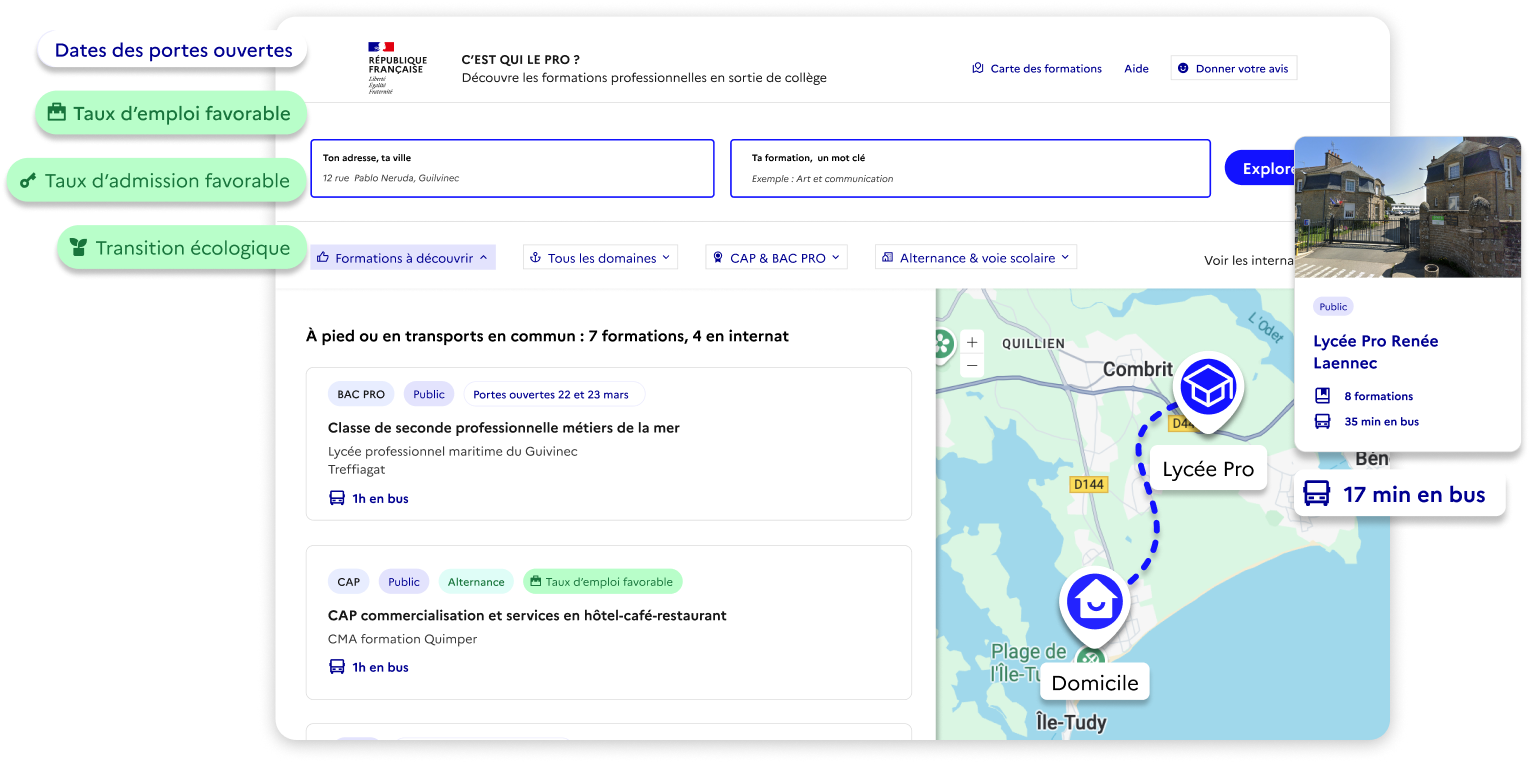
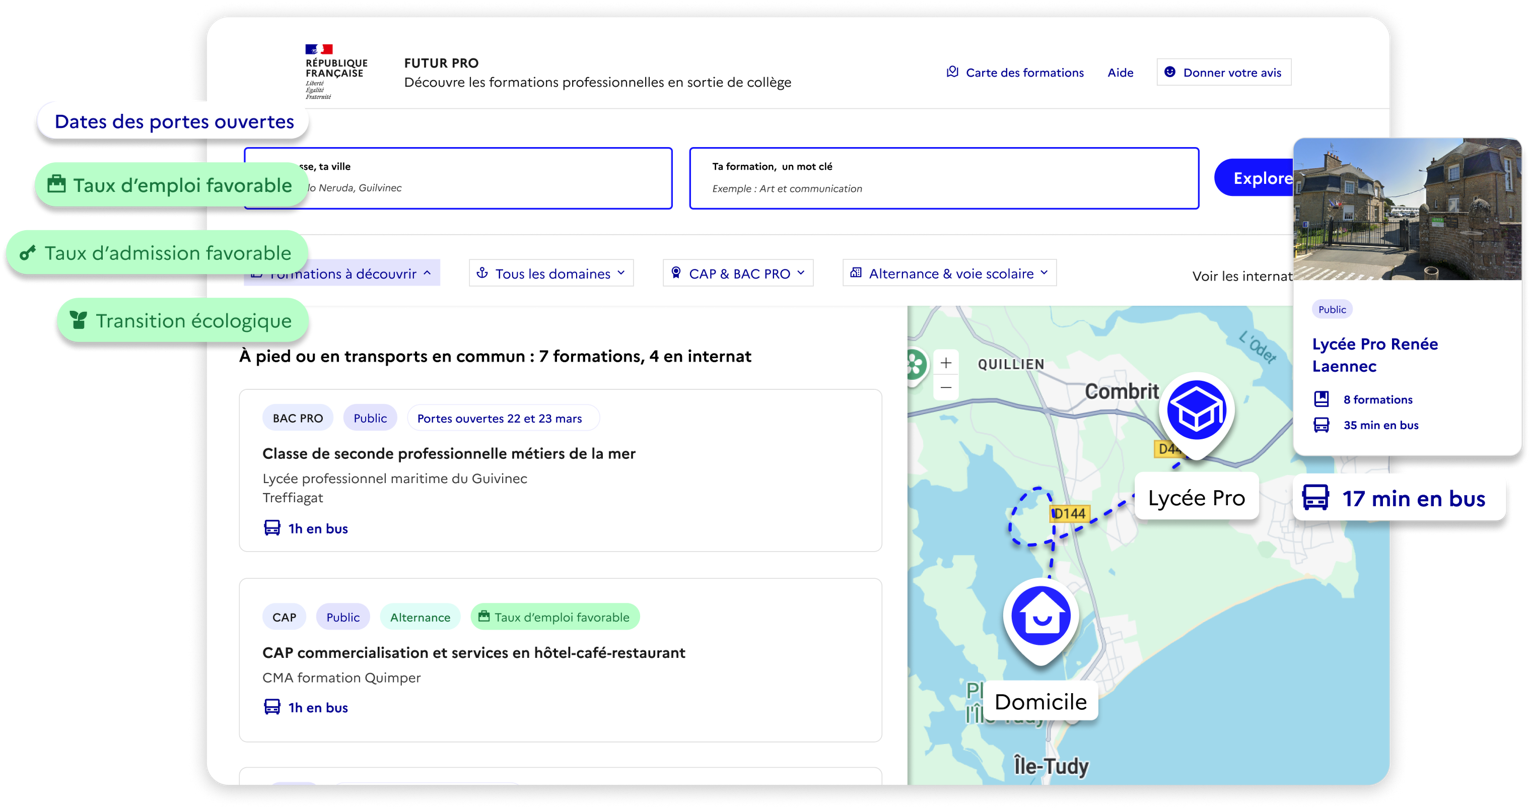
style: maj des assets

diff --git a/ui/app/(accompagnateur)/page.tsx b/ui/app/(accompagnateur)/page.tsx
@@ -103,7 +103,7 @@ export default function Page({ params }: { params: { id: string } }) {
       <MainContainer bgColor="white">
         <Container nopadding maxWidth={"md"}>
           <LogoStack direction={{ xs: "column", md: "row" }} spacing={2}>
-            <Image src={"/assets/logo_cqlp.svg"} width="299" height="49" alt={"Logo CQLP"} />
+            <Image src={"/assets/logo_futurpro.svg"} width="299" height="49" alt={"Logo CQLP"} />
             <Typography>et</Typography>
             <Image src={"/assets/logo_avenir.svg"} width="206" height="93" alt={"Logo Avenir"} />
           </LogoStack>
